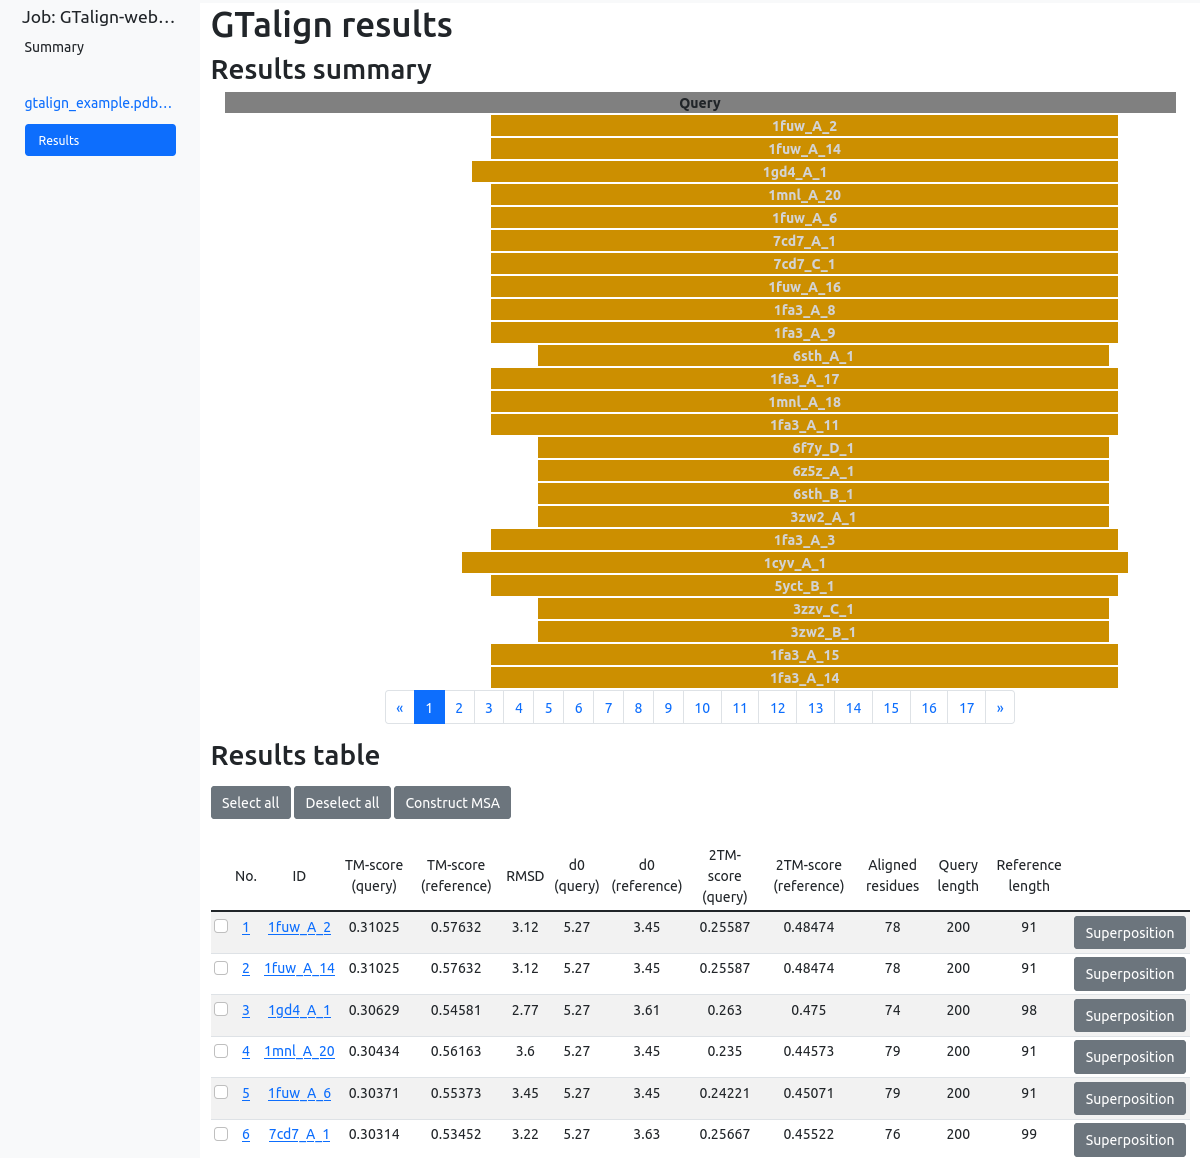
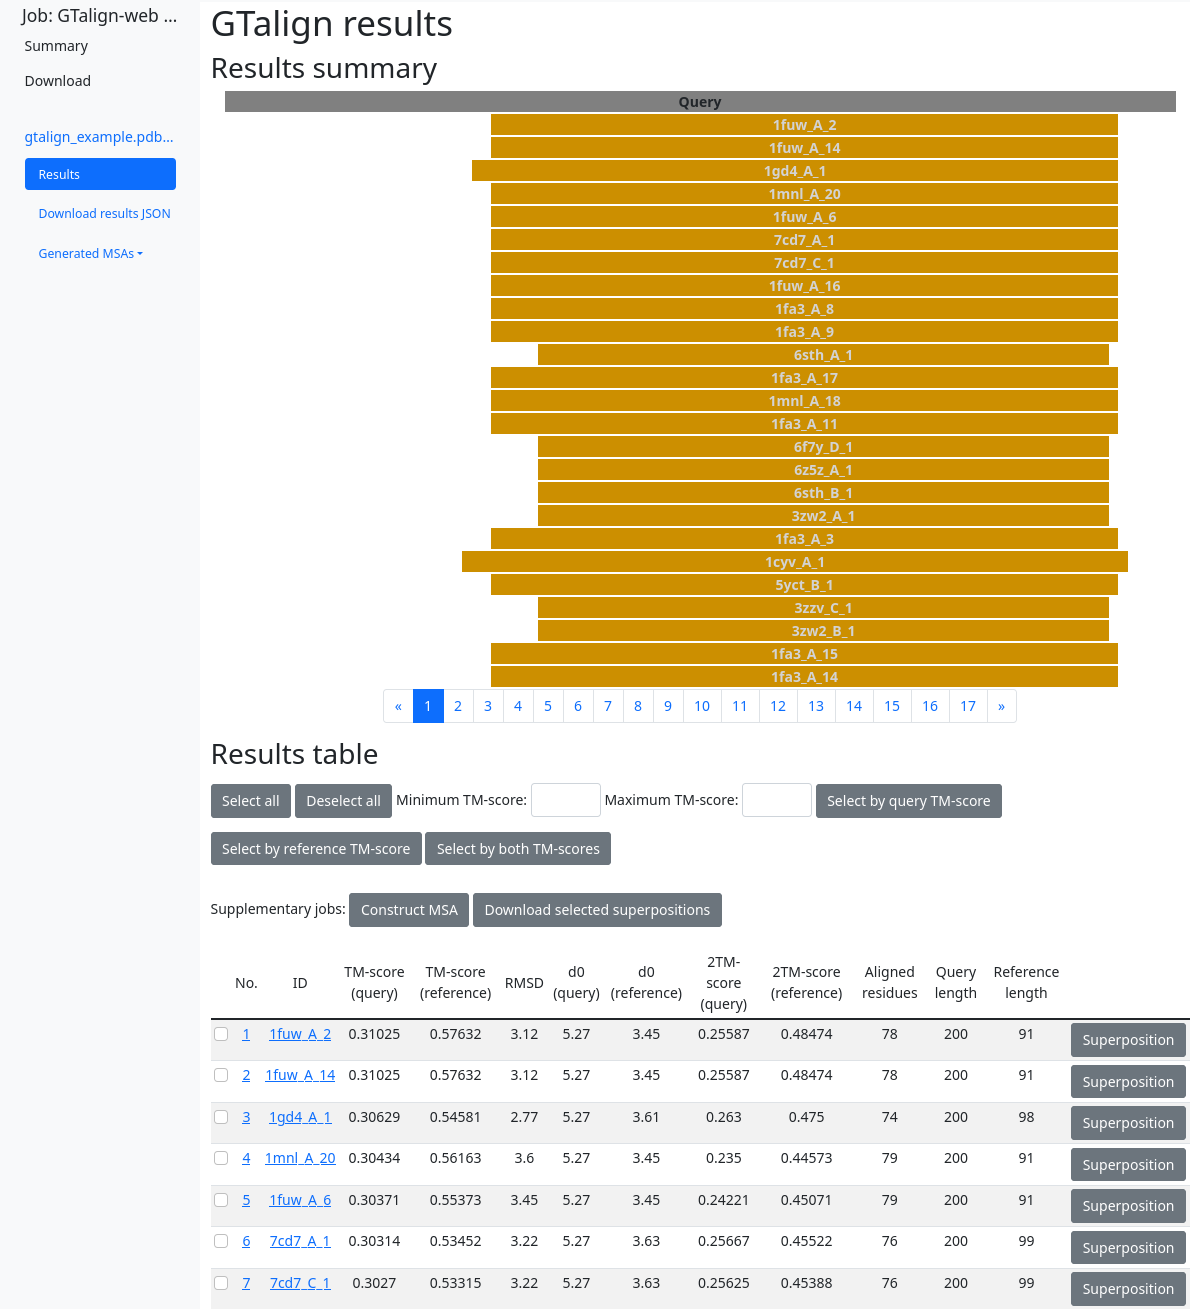
Update GTalign-web about page and help
modified:   README.md
	modified:   static/img/gtalign_tutorial/10_select.png
	new file:   static/img/gtalign_tutorial/12a_download_superpositions_button.png
	new file:   static/img/gtalign_tutorial/12b_download_superpositions.png
	modified:   static/img/gtalign_tutorial/1_input.png
	modified:   static/img/gtalign_tutorial/7_results.png
	modified:   static/img/gtalign_tutorial/9c_superposition.png
	modified:   static/img/help/gtalign_results.png
	modified:   templates/site/gtalign_about.html
	modified:   templates/site/gtalign_api.html
	modified:   templates/site/gtalign_tutorial.html

Changed region(s): [[0.0, 0.0, 1.0, 1.0], [0.342, 0.5285, 0.3731, 0.5596]]

diff --git a/templates/site/gtalign_tutorial.html b/templates/site/gtalign_tutorial.html
@@ -25,28 +25,28 @@ Choose structure databases (e.g., PDB, SCOPe40, UniRef30) to search against.
 <p>
 If necessary, expand the "Search and alignment options" section and adjust additional search parameters such as the minimum TM-score threshold, sorting options, or structure/sequence similarity filters.
 </p>
-<p><img src="{% static 'img/gtalign_tutorial/3_parameters.png' %}" alt="DBs" class="img-fluid border border-dark"></p>
+<p><img src="{% static 'img/gtalign_tutorial/3_parameters.png' %}" alt="Search parameters" class="img-fluid border border-dark"></p>
 <h2>Step 4: Submit the job</h2>
 <p>
 Click the "Submit" button to place your job in the queue.
 </p>
-<p><img src="{% static 'img/gtalign_tutorial/4_submit.png' %}" alt="DBs" class="img-fluid border border-dark"></p>
+<p><img src="{% static 'img/gtalign_tutorial/4_submit.png' %}" alt="Submit" class="img-fluid border border-dark"></p>
 <h2>Step 5: Check job progress</h2>
 <p>
 As the job runs, you can monitor its progress through the displayed status updates.
 </p>
-<p><img src="{% static 'img/gtalign_tutorial/5_job_progress.png' %}" alt="DBs" class="img-fluid border border-dark"></p>
+<p><img src="{% static 'img/gtalign_tutorial/5_job_progress.png' %}" alt="Progress" class="img-fluid border border-dark"></p>
 <h2>Step 6: View results</h2>
 <p>
 Once the job is complete, links to individual results pages for each query chain and/or model will appear.
 </p>
-<p><img src="{% static 'img/gtalign_tutorial/6_results_summary.png' %}" alt="DBs" class="img-fluid border border-dark"></p>
+<p><img src="{% static 'img/gtalign_tutorial/6_results_summary.png' %}" alt="Results summary" class="img-fluid border border-dark"></p>
 <h2>Step 7: Choose alignments to analyze</h2>
 <p>
 For each query, a results summary and a detailed table are displayed.
 Clicking on the schematic alignment or a row number in the table helps access the corresponding pairwise alignment.
 </p>
-<p><img src="{% static 'img/gtalign_tutorial/7_results.png' %}" alt="DBs" class="img-fluid border border-dark"></p>
+<p><img src="{% static 'img/gtalign_tutorial/7_results.png' %}" alt="Results" class="img-fluid border border-dark"></p>
 <h2>Step 8: Analyze pairwise alignments</h2>
 <p>
 Each results page provides the following information:
@@ -68,23 +68,28 @@ Each results page provides the following information:
 	</li>
 	<li>Transformation data, rotation matrices and translation vectors, for superimposing the reference structure onto the query.</li>
 </ul>
-<p><img src="{% static 'img/gtalign_tutorial/8_alignment.png' %}" alt="DBs" class="img-fluid border border-dark"></p>
+<p><img src="{% static 'img/gtalign_tutorial/8_alignment.png' %}" alt="Alignment" class="img-fluid border border-dark"></p>
 <h2>Step 9: Select pairwise alignments</h2>
 <p>
 View structure superposition after clicking on "Superposition" buttons in results table or next to alignments.
 </p>
-<p><img src="{% static 'img/gtalign_tutorial/9a_table_superposition.png' %}" alt="DBs" class="img-fluid border border-dark"></p>
-<p><img src="{% static 'img/gtalign_tutorial/9b_alignment_superposition.png' %}" alt="DBs" class="img-fluid border border-dark"></p>
+<p><img src="{% static 'img/gtalign_tutorial/9a_table_superposition.png' %}" alt="Superposition button" class="img-fluid border border-dark"></p>
+<p><img src="{% static 'img/gtalign_tutorial/9b_alignment_superposition.png' %}" alt="Superposition button" class="img-fluid border border-dark"></p>
 <p>Structure superposition opens in a new tab.</p>
-<p><img src="{% static 'img/gtalign_tutorial/9c_superposition.png' %}" alt="DBs" class="img-fluid border border-dark"></p>
+<p><img src="{% static 'img/gtalign_tutorial/9c_superposition.png' %}" alt="Superposed structures" class="img-fluid border border-dark"></p>
 <h2>Step 10: Select pairwise alignments</h2>
 <p>
 Select pairwise alignments from the results, either manually or by specifying criteria such as a range of TM-scores.
 </p>
-<p><img src="{% static 'img/gtalign_tutorial/10_select.png' %}" alt="DBs" class="img-fluid border border-dark"></p>
+<p><img src="{% static 'img/gtalign_tutorial/10_select.png' %}" alt="Select results" class="img-fluid border border-dark"></p>
 <h2>Step 11: Construct a Multiple Sequence Alignment (MSA) from structure alignments</h2>
 <p>
 Based on the selected pairwise alignments, construct an MSA. The resulting MSA will be displayed and can be analyzed interactively.
 </p>
-<p><img src="{% static 'img/gtalign_tutorial/11_msa.png' %}" alt="DBs" class="img-fluid border border-dark"></p>
+<p><img src="{% static 'img/gtalign_tutorial/11_msa.png' %}" alt="MSA" class="img-fluid border border-dark"></p>
+<h2>Step 12: Download selected superpositions</h2>
+<p>By clicking on "Download selected superpositons" button on the results page, you can download multiple superposed structures.</p>
+<p><img src="{% static 'img/gtalign_tutorial/12a_download_superpositions_button.png' %}" alt="Superpositions button" class="img-fluid border border-dark"></p>
+<p>Superpositions download page opens in a new tab, and after some time it is possible to download them in one ZIP file.</p>
+<p><img src="{% static 'img/gtalign_tutorial/12b_download_superpositions.png' %}" alt="Superpositions button" class="img-fluid border border-dark"></p>
 {% endblock %}

diff --git a/templates/site/gtalign_api.html b/templates/site/gtalign_api.html
@@ -4,8 +4,16 @@
 <script>nice_json = function(obj, div_id) {e = document.getElementById(div_id); e.innerHTML = JSON.stringify(obj, undefined, 4);}</script>
 <div class="help_page">
 <h1>GTalign-web API help</h1>
+<h2>Table of contents</h2>
+<ol>
+    <li><a href="#gtalign_api_help_submit">Submitting query structure(s)</a></li>
+    <li><a href="#gtalign_api_help_databases">Specifying search databases</a></li>
+    <li><a href="#gtalign_api_help_settings">Specifying search settings</a></li>
+    <li><a href="#gtalign_api_help_job_status">Checking job status</a></li>
+    <li><a href="#gtalign_api_help_download">Downloading the results</a></li>
+</ol>
 <p>GTalign-web allows submitting queries and checking their status using command-line interface.</p>
-<h2>Submitting query structure(s)</h2>
+<h2 id="gtalign_api_help_submit">Submitting query structure(s)</h2>
 <p>One or more structure files can be submitted using the following command:</p>
 <p><code>curl https://{{ request.get_host }}{% url 'gtalign_api_submit' %} -F input_query_files=@first_structure.pdb -F input_query_files=@second_structure.cif</code></p>
 <p>The server responds in JSON format:</p>
@@ -19,7 +27,7 @@ This identifier can be used in further requests or for opening the job in a brow
     nice_json({"success": true, "job_id": "MyJobID"}, 'submit_json_success');
     nice_json({"success": false, "form_errors": {"__all__": ["No query structure input!"]}}, 'submit_json_failure');
 </script>
-<h2>Specifying search databases</h2>
+<h2 id="gtalign_api_help_databases">Specifying search databases</h2>
 <p>Search is possible using the same databases that are available in the web interface.
 The list if databases can be cheched using the following command:</p>
 <p><code>curl https://{{ request.get_host }}{% url 'gtalign_api_databases' %}</code></p>
@@ -28,7 +36,7 @@ The list if databases can be cheched using the following command:</p>
 <script>nice_json({"databases": [{"description": "PDB mmCIF", "server_name": "mmCIF"}, {"description": "SCOPe40", "server_name": "scope40_208"}, {"description": "ECOD_F70", "server_name": "ecod_20240325_F70"}, {"description": "UniProtKB/SwissProt", "server_name": "swissprot_v4"}, {"description": "UniProt Reference Proteomes", "server_name": "selected_proteomes"}, {"description": "UniRef30", "server_name": "uniref30"}, {"description": "PDB mmCIF|SCOPe40|ECOD_F70", "server_name": "mmCIF|scope40_208|ecod_20240325_F70"}, {"description": "PDB mmCIF|SCOPe40|ECOD_F70|SwissProt|Reference Proteomes", "server_name": "mmCIF|scope40_208|ecod_20240325_F70|swissprot_v4|selected_proteomes"}]}, 'databases_response');</script>
 <p>For example, the following command submits a query to search in the UniProtKB/SwissProt database:</p>
 <p><code>curl https://{{ request.get_host }}{% url 'gtalign_api_submit' %} -F input_query_files=@structure.pdb -F database=swissprot_v4</code></p>
-<h2>Specifying search settings</h2>
+<h2 id="gtalign_api_help_settings">Specifying search settings</h2>
 <p>Search settings can be specified using the following keywords:</p>
 <ul>
 	<li>s: TM-score threshold [0, 1)</li>
@@ -42,7 +50,7 @@ The list if databases can be cheched using the following command:</p>
 <p>The following command runs a search using slower speed and pre-filtering of queries having sequence similarity of at least 20%, reporting only hits having TM-score > 0.6:</p>
 <p><code>curl https://{{ request.get_host }}{% url 'gtalign_api_submit' %} -F input_query_files=@structure.pdb -F s=0.6 -F presimilarity=20 -F speed=9</code></p>
 <p>More details and the default parameters can be found in the <a href="{% url 'gtalign_help' %}#search_options">main Help page</a>.</p>
-<h3>Checking job status</h3>
+<h2 id="gtalign_api_help_job_status">Checking job status</h2>
 <p>The job status can be checked after submitting it:</p>
 <p><code>curl https://{{ request.get_host }}{% url 'gtalign_api_job_status' job_id='MyJobID' %}</code></p>
 <p>The status of the job is reported in JSON format.
@@ -54,7 +62,7 @@ First, the job is "new", the "queued", then "running":</p>
 	nice_json({"job_id": "MyJobID", "success": true, "description": "", "job_status": "running", "error_log": null, "log": "Submitting...\nQueued.\nRunning...\nPreparing input...\n2 structure(s) in PDB format.\nSearching structures using GTalign...\n"}, 'job_status_running');
 	nice_json({"job_id": "MyJobID", "success": true, "description": "", "job_status": "finished", "error_log": "", "number_of_results": 2, "log": "Submitting...\nQueued.\nRunning...\nPreparing input...\n2 structure(s) in mmCIF format.\nSearching structures using GTalign...\nFinalizing results...\nFinished.\n", "web_url": "/comer/gtalign/results/MyJobID", "download_url": "/comer/gtalign/download/results/MyJobID", "download_input_url": "/gtalign/download/input/MyJobID"}, "job_status_finished");
 </script>
-<h2>Downloading the results</h2>
+<h2 id="gtalign_api_help_download">Downloading the results</h2>
 <h3>Downloading results files</h3>
 <p>All job data (input and output) can be downloaded using the download URL:</p>
 <p><code>curl https://{{ request.get_host }}{% url 'download_gtalign_results_zip' job_id='MyJobID' %}</code></p>

diff --git a/templates/site/gtalign_about.html b/templates/site/gtalign_about.html
@@ -7,7 +7,7 @@
 <p>GTalign-web has been developed at the <a href="https://bioinformatics.lt">Department of Bioinformatics</a> of the <a href="http://www.ibt.lt">Institute of Biotechnology</a> (<a href="https://gmc.vu.lt">Life Sciences Center</a>, <a href="https://www.vu.lt">Vilnius University</a>).</p>
 <p>This website is free and open to all users and there is no login requirement.</p>
 <h2 id="browser_compatibility">Browser compatibility</h2>
-<p>The COMER web server has been tested and functions correctly on the following browsers.</p>
+<p>GTalign-web has been tested and functions correctly on the following browsers:</p>
 <table class="table table-striped table-sm w-auto">
     <thead><tr>
         <td>OS</td>
@@ -19,8 +19,8 @@
     <tbody>
         <tr>
             <td>Linux</td>
-            <td>131</td>
             <td>133</td>
+            <td>135</td>
             <td>n/a</td>
             <td>n/a</td>
         </tr>
@@ -42,6 +42,10 @@
 </table>
 <h2 id="data_and_software">Software and Data Availability</h2>
 <p>
+GTalign-web is fully open source.
+The source code of the {{ 'chemikeris/comer_web'|github_link:"frontend web server" }} and the {{ 'minmarg/gtalign-web-backend'|github_link:"backend computation server" }} is freely available.
+</p>
+<p>
 Standalone {{ "minmarg/gtalign_alpha"|github_link:"GTalign" }} software for GPU-accelerated rapid protein structure search and alignment is open source and is available for local use.
 </p>
 <p>
@@ -59,6 +63,7 @@ GTalign-web uses the protein structural data available from the following databa
 	<li><a href="https://www.uniprot.org/proteomes">Reference proteomes</a>: A collection of 48 representative proteomes</li>
 	<li><a href="https://uniclust.mmseqs.com/">UniRef30</a>: UniProt entries clustered at 30% sequence identity</li>
 </ul>
+<p>Benchmarking data for GTalign-web are available on {{ 'minmarg/gtalign-web-benchmark'|github_link:"GitHub" }}.</p>
 <h2 id="cite_us">Cite us</h2>
 <p>If GTalign is useful for your research, please cite our articles:<p>
 <ul>
@@ -67,6 +72,7 @@ GTalign-web uses the protein structural data available from the following databa
 <h2 id="privacy">Privacy policy</h2>
 <p>The GTalign-web collects the user's email address, if the user wants to be informed when the job has finished.
 The server also uses cookies to improve the user experience.
+We do not track users, and some essential cookies are necessary for the proper functioning and security of the web server and cannot be disabled.
 More detailed information can be found in the <a href="https://bioinformatics.lt/privacy/">privacy policy</a> page.</p>
 <h2 id="contacts">Contacts</h2>
 <p>For enquiries please email us at mindaugas.margelevicius@bti.vu.lt or justas.dapkunas@bti.vu.lt.

diff --git a/README.md b/README.md
@@ -1,15 +1,19 @@
 # Description
 
-[The COMER web server](https://bioinformatics.lt/comer) is a web server for protein analysis based on the sequence alignment and homology search methods [COMER2](https://github.com/minmarg/comer2) and [COTHER](https://github.com/minmarg/cother). They exhibit sensitive, accurate, and fast homology searches.
+This is the repository for the COMER web server and GTalign-web.
 
-The web server module is a web-based interface to the server. It allows running sequence profile-profile searches by COMER2 from a web browser or using the command-line API. This module depends on the [backend module](https://github.com/minmarg/comer-ws-backend) that runs all computations.
+[The COMER web server](https://bioinformatics.lt/comer) is a web server for protein analysis based on the sequence alignment and homology search methods [COMER2](https://github.com/minmarg/comer2) and [COTHER](https://github.com/minmarg/cother). They exhibit sensitive, accurate, and fast homology searches. The web server module is a web-based interface to the server. It allows running sequence profile-profile searches by COMER2 from a web browser or using the command-line API.
+
+[GTalign-web](https://bioinformatics.lt/comer/gtalign/) is a web server implementing [GTalign](https://github.com/minmarg/gtalign_alpha), a spatial index-driven protein structure alignment and search tool.
+
+This module depends on the corresponding [COMER web server](https://github.com/minmarg/comer-ws-backend) and [GTalign-web](https://github.com/minmarg/gtalign-web-backend) backend modules that run all computations.
 
 
 # License
 
-The COMER web server backend module is licensed under GNU General Public License version 3. Please find the LICENSE and COPYING files included in the software package.
+The software is licensed under GNU General Public License version 3. Please find the LICENSE and COPYING files included in the software package.
 
 
 # Funding
 
-The work was supported by the European Regional Development Fund [grant number 01.2.2-LMT-K-718-01-0028].
+The work was supported by the European Regional Development Fund [grant number 01.2.2-LMT-K-718-01-0028] and the Research Council of Lithuania (Lietuvos Mokslo Taryba).
